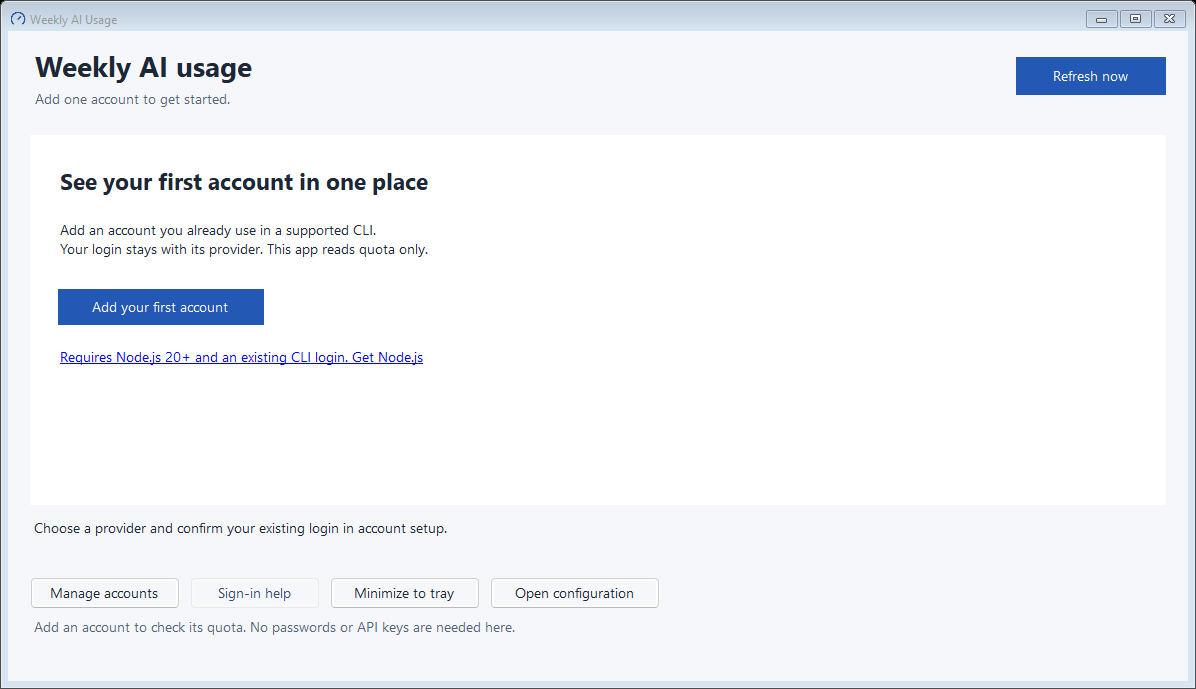
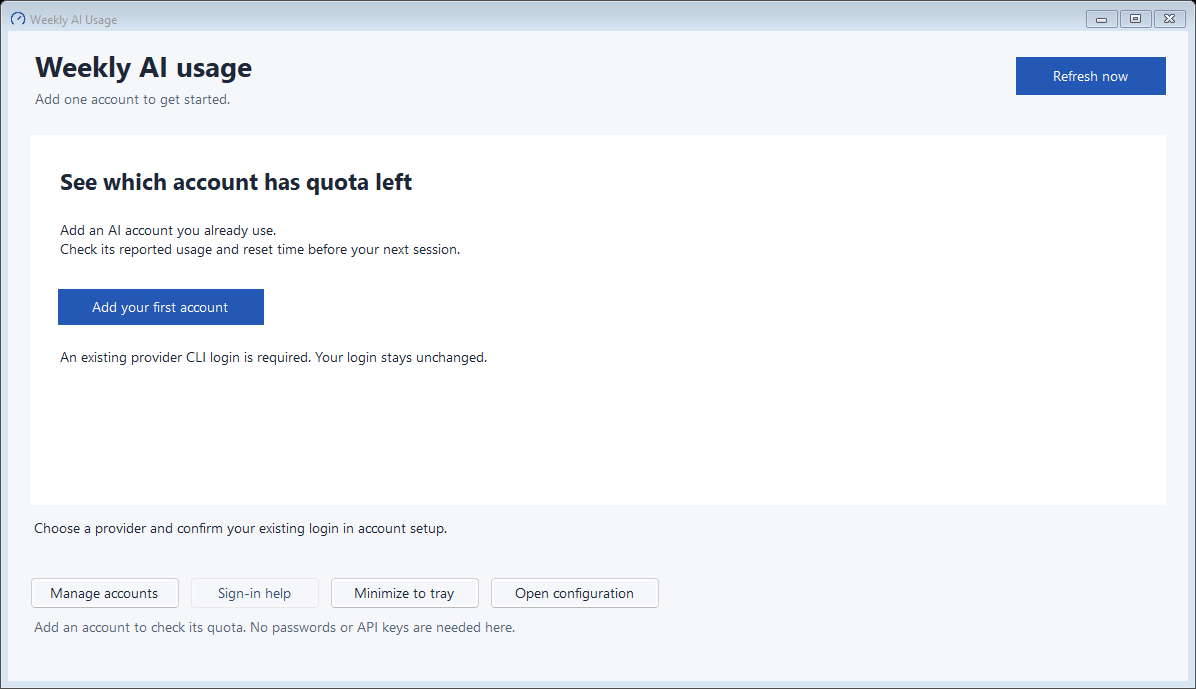
docs(onboarding): lead with quota availability and installer setup
Plan: docs/plans/2026-09-25-guided-onboarding.md

Changed region(s): [[0.0309, 0.3048, 0.3712, 0.3962], [0.0619, 0.4877, 0.4022, 0.5486], [0.0928, 0.2438, 0.3712, 0.2743]]

diff --git a/README.md b/README.md
@@ -1,7 +1,11 @@
-Weekly AI Usage
-===============
+See which AI account has quota left
+==================================
 
-A Windows tray dashboard for checking Claude, Codex, Grok and Devin quota in one place. Keep separate rows for work and personal accounts, see remaining weekly quota and reset times, and select an account to inspect its shorter usage window.
+Check before your next coding session. Weekly AI Usage puts the reported weekly usage, remaining quota and reset times for your Claude, Codex, Grok and Devin accounts in one Windows tray dashboard. Keep separate rows for work and personal accounts.
+
+[Download for Windows](https://github.com/naimkatiman/weekly-ai-usage/releases/download/v0.2.0-preview.1/WeeklyAIUsage-0.2.0-preview.1-Setup-x64.exe)
+
+Windows 10 or 11, x64. Preview v0.2.0-preview.1. The installer includes Node.js; no separate Node.js installation is required. You need a supported provider CLI that you have already signed into. [Release notes and checksums](https://github.com/naimkatiman/weekly-ai-usage/releases).
 
 ![Dashboard with three accounts and account management controls](docs/screenshot.png)
 
@@ -10,15 +14,13 @@ Synthetic demo data. These readings illustrate the UI and are not live account r
 Get your first account working
 ------------------------------
 
-You need Windows 10 or 11, [Node.js 20 or newer](https://nodejs.org), and a supported provider CLI that you have already signed into. This app reads that existing login. It does not sign you in.
+1. Download and run the installer above. Open Weekly AI Usage from the Start Menu after installation.
+2. Choose Add your first account, select its provider, then Find existing login. Confirm the email and choose Save account. For a custom profile, enter its folder first. Devin requires manual email entry.
+3. Check the account row. Live with a weekly reading means the provider returned its quota. You can see the remaining allowance and reset time, then select the account to inspect its shorter usage window when available.
 
-1. Download the portable ZIP from [Releases](https://github.com/naimkatiman/weekly-ai-usage/releases). This is a preview release.
-2. Extract the entire ZIP to a folder you can write to, such as a folder under Documents. Keep the files together.
-3. Open `WeeklyUsage.exe`, then choose Add your first account.
-4. Choose your provider. Select Find existing login to fill in the email from its local profile, or enter the email yourself. For a custom profile, enter its folder first. Devin requires manual email entry.
-5. Choose Save account. The dashboard checks the account immediately. Confirm that its row shows Live and a weekly reading. A detected email alone does not prove that the provider accepts the login.
+A detected email alone does not prove that the provider accepts the login. If the row is Unavailable, select it and open Sign-in help. Follow the instructions for that account, then choose Refresh now. See [troubleshooting](docs/troubleshooting.md) for login, installation and other setup failures.
 
-If the row is Unavailable, select it and open Sign-in help. Follow the instructions for that account, then choose Refresh now. See [troubleshooting](docs/troubleshooting.md) for missing Node.js, custom folders and other setup failures.
+The installer works for your Windows user without administrator rights. It adds a Start Menu shortcut and installs under `%LOCALAPPDATA%\Programs\Weekly AI Usage` by default. It does not change PATH or enable automatic startup. The app reads your existing provider login; it does not sign you in.
 
 Use Manage accounts to edit an account, or choose New account there to add another. A label such as Work or Personal is optional. Start with one account so you can confirm its reading before adding the rest.
 
@@ -64,7 +66,7 @@ For Devin, set the optional Devin CLI path if `devin.exe` is not on PATH. Only t
 Manual configuration
 --------------------
 
-The account editor creates `accounts.json` beside the app by default. Set `WEEKLY_USAGE_CONFIG` before launching the app to use a different file; the editor and collector both use it. Existing account settings and additional JSON fields are preserved when the editor saves. If another process changes the file, reopen Manage accounts before saving again.
+The account editor creates `accounts.json` beside the app by default, normally in `%LOCALAPPDATA%\Programs\Weekly AI Usage` for an installed copy. Set `WEEKLY_USAGE_CONFIG` before launching the app to use a different file; the editor and collector both use it. Existing account settings and additional JSON fields are preserved when the editor saves. If another process changes the file, reopen Manage accounts before saving again.
 
 For manual setup, copy `accounts.example.json` to `accounts.json`, replace the example email with your own, and choose Refresh now. The example contains one account:
 
@@ -90,11 +92,18 @@ Save JSON as UTF-8. Use forward slashes in Windows paths, such as `C:/tools/devi
 Updates and removal
 -------------------
 
-Before updating, exit the app and back up `accounts.json`. If you set `WEEKLY_USAGE_CONFIG`, back up that file instead and keep the same setting when launching the new version. Release ZIPs do not contain a real `accounts.json` or `usage-cache.json`.
+To update an installed copy, exit the app and run the new installer. It keeps your account settings and usage cache. Back up `accounts.json` before updating. If you set `WEEKLY_USAGE_CONFIG`, back up that file instead and keep the same setting when launching the new version. Release packages do not contain a real `accounts.json` or `usage-cache.json`.
 
-Extract a new release to a new folder. Copy your old `accounts.json` into it, or continue using your external configuration file, then launch the new executable. The usage cache is optional and can be rebuilt by refreshing. Keep the old folder until the new version reads your account correctly.
+Moving from the old ZIP? Exit the old app first. Install the new version and clear Open Weekly AI Usage on the Finish screen. With both copies closed, copy only your old `accounts.json` into the installation folder, then open the installed app. If you already use `WEEKLY_USAGE_CONFIG`, keep it pointed at your existing configuration instead. There is no need to copy provider credential files or change their logins. The usage cache is optional and can be rebuilt by refreshing. Keep the old folder until the installed version reads your account correctly.
 
-To remove the app, exit it and delete its extracted folder. This removes its local configuration and cache if they are in that folder. Remove any external configuration file separately if you no longer need it. Provider CLI logins remain in their own folders and are unchanged.
+To uninstall, exit the app and remove Weekly AI Usage through Windows Settings > Apps. Uninstall removes the app files and shortcuts but preserves user-created `accounts.json` and `usage-cache.json`. To remove those too, deliberately delete them from the installation folder after uninstalling. Remove an external configuration file only if you no longer need it. Provider CLI logins remain in their own folders and are unchanged.
+
+Portable ZIP and source users
+----------------------------
+
+The installer is the simplest setup. Earlier portable ZIPs remain available under [Releases](https://github.com/naimkatiman/weekly-ai-usage/releases) for manual use. They require [Node.js 20 or newer](https://nodejs.org) on PATH. Extract the entire ZIP to a writable folder, keep its files together, and open `WeeklyUsage.exe`.
+
+To update a portable copy manually, exit it, extract the new package to a new folder and copy `accounts.json`, or retain your external `WEEKLY_USAGE_CONFIG` setting. To remove a portable copy, exit it and delete its extracted folder; this also deletes any settings and cache inside that folder.
 
 Caveats
 -------
@@ -108,7 +117,7 @@ Endpoint references: [CodexBar provider notes](https://github.com/steipete/Codex
 Build from source
 -----------------
 
-In PowerShell, with Git and Node.js installed:
+In PowerShell, with Git and Node.js 20 or newer installed:
 
 ```powershell
 git clone https://github.com/naimkatiman/weekly-ai-usage.git
@@ -122,15 +131,17 @@ The build uses the .NET Framework C# compiler included with Windows. No addition
 Development
 -----------
 
-Run all tests, compile, then create a portable preview package:
+Run all tests, compile, then create the installer using an existing Inno Setup compiler:
 
 ```powershell
 powershell -NoProfile -ExecutionPolicy Bypass -File .\test.ps1
 powershell -NoProfile -ExecutionPolicy Bypass -File .\build.ps1
-powershell -NoProfile -ExecutionPolicy Bypass -File .\package.ps1 -Version 0.1.0-preview.1
+powershell -NoProfile -ExecutionPolicy Bypass -File .\installer.ps1 -Version 0.2.0-preview.1
 ```
 
-The package and SHA-256 checksum are written to `dist/WeeklyAIUsage-0.1.0-preview.1-windows.zip` and its `.sha256` file. `collect.cjs` builds the snapshot; `grok.cjs` and `devin.cjs` decode provider responses. The C# sources implement the window and account editor.
+The installer and SHA-256 checksum are written to `dist/WeeklyAIUsage-0.2.0-preview.1-Setup-x64.exe` and its `.sha256` file. The build downloads a pinned official Node.js 24 runtime, verifies its checksum and includes its license. The Windows CI runner has Inno Setup installed; for a custom compiler location, pass `-CompilerPath` or set `ISCC_PATH`. `package.ps1 -Version 0.2.0-preview.1` creates a portable ZIP for manual use instead.
+
+`collect.cjs` builds the snapshot; `grok.cjs` and `devin.cjs` decode provider responses. The C# sources implement the window and account editor.
 
 Headless: after configuring an account, `node collect.cjs` prints the snapshot as JSON on Windows or Linux. On macOS, Claude Code uses the Keychain instead of `.credentials.json`, so Claude rows report no matching login.
 

diff --git a/docs/linkedin-preview.md b/docs/linkedin-preview.md
@@ -1,54 +1,63 @@
-LinkedIn preview launch
-======================
+LinkedIn installer follow-up
+===========================
 
-This is a prepared draft, not a published post. Use it only after the portable preview release is available and its download link has been checked. The three-person onboarding test below remains unverified. No live provider compatibility or setup timing is claimed by this document.
+The owner has published the [original LinkedIn post](https://www.linkedin.com/feed/update/urn:li:activity:7509033966079840256/). The installer follow-up and comment below are prepared drafts. Neither has been posted by this work. Use them after the v0.2.0-preview.1 installer is published and its public download has been checked. The three-person onboarding test below remains unverified; no setup timing or new live provider compatibility is claimed here.
 
-Post draft
-----------
+Follow-up draft
+---------------
 
 Which AI account still has quota before I start another coding session?
 
-I built Weekly AI Usage to answer that in one Windows tray dashboard.
+Weekly AI Usage puts that answer in one Windows tray dashboard. See reported weekly usage, remaining quota and reset times across your Claude, Codex, Grok and Devin accounts, with separate rows for work and personal accounts.
 
-It reads quota for Claude, Codex, Grok and Devin, with separate rows for work and personal accounts. You can see the reported weekly usage, remaining quota and reset time. Select an account to inspect its shorter usage window when the provider offers one.
+The Windows preview now has an installer. No ZIP extraction or separate Node.js installation required.
 
-The preview now has a portable download and a guided account setup. Choose a provider, find an existing local login, and save the account. Devin requires manual email entry.
+Install the app, choose Add your first account, and select an existing provider login. Save it to check its quota. Devin requires manual email entry.
 
-You still need Windows, Node.js 20 or newer, and a provider CLI you have already signed into. The dashboard reads those logins, checks usage every 15 minutes, and labels missing or stale readings clearly. It does not send prompts or spend credits.
+You need Windows 10 or 11 on x64 and a supported provider CLI you have already signed into. The dashboard reads that existing login and labels missing or stale readings clearly.
 
-I am looking for Windows users with multiple AI accounts to try the setup and tell me where they get stuck.
+Try it before your next coding session. Tell me which step needs less effort.
 
-Download the preview: https://github.com/naimkatiman/weekly-ai-usage/releases
+Download for Windows: https://github.com/naimkatiman/weekly-ai-usage/releases/download/v0.2.0-preview.1/WeeklyAIUsage-0.2.0-preview.1-Setup-x64.exe
 
-Prepared preview asset
-----------------------
+Comment for the existing post
+-----------------------------
 
-`linkedin-preview.mp4` is a 25-second captioned walkthrough made from native UI screenshots. It shows welcome, account setup, missing-login feedback and a synthetic quota dashboard. It is an illustrated preview, not a recording of a real provider sign-in. The release includes this optional video for the post. The storyboard below is available for a later interactive recording.
+Update: there is now a Windows installer. Node.js is included, so you do not need to install it separately. Install, add your existing AI account, and check its remaining weekly quota and reset time. Windows 10/11 x64 and an existing supported provider CLI login are required.
+
+Download: https://github.com/naimkatiman/weekly-ai-usage/releases/download/v0.2.0-preview.1/WeeklyAIUsage-0.2.0-preview.1-Setup-x64.exe
+
+Preview assets
+--------------
+
+The `linkedin-preview.mp4` in v0.1.0-preview.1 is a historical 25-second captioned walkthrough made from native UI screenshots. It shows welcome, account setup, missing-login feedback and a synthetic quota dashboard. Its separate Node.js requirement describes the earlier portable release and is outdated for the installer. Do not reuse that video to explain the new installation flow.
+
+It is an illustrated preview, not a recording of a real provider sign-in. Use the storyboard below for a new installer walkthrough; do not claim it exists until recorded and reviewed.
 
 Demo recording, 25 seconds
 -------------------------
 
-Use a clean demo configuration with addresses such as `personal@example.com` and `work@example.com`. Record only synthetic readings and label the recording "Demo data" on screen throughout. Never expose real account emails, provider credential files or tokens. Synthetic readings demonstrate the interface; they do not verify live provider compatibility.
+Use a clean demo configuration with addresses such as `personal@example.com` and `work@example.com`. Label synthetic readings "Demo data" on screen throughout. Never expose real account emails, provider credential files or tokens. Synthetic readings demonstrate the interface; they do not verify live provider compatibility.
 
 | Time | Picture | On-screen text |
 | --- | --- | --- |
 | 0-3 s | Open the dashboard from the tray. Show two demo account rows with different remaining quotas. | Which account has quota left? |
-| 3-7 s | Open Manage accounts and the account editor. Show the provider choice and demo email. | Add the account you already use |
-| 7-12 s | Show a separate, clearly labelled demo of the first-run setup with Find existing login and Save account. | Existing CLI login required |
+| 3-7 s | Show the installer, then the Start Menu shortcut. Use an explicit cut between them. | Install on Windows. Node.js included. |
+| 7-12 s | Show first-run setup with Find existing login and Save account. | Add an account you already use |
 | 12-18 s | Return to the two-row dashboard. Select one row to show its shorter usage window and reset time. | Weekly quota and reset time |
 | 18-22 s | Show a Stale demo row with its capture time, then an Unavailable row. | Missing data stays visible |
-| 22-25 s | Minimize to the tray. End with the repository name and release link. | Windows preview. Node.js 20+ required. |
+| 22-25 s | Minimize to the tray. End with the repository name and release link. | Windows preview. Existing CLI login required. |
 
 Keep account names and statuses large enough to read on a phone. Use short cuts instead of speeding through an actual setup. Do not add a stopwatch or imply that a 25-second video proves setup duration. Add captions so the demo works without audio.
 
 Gate for the broader launch
 --------------------------
 
-Status: unverified. Recruit three first-time Windows users who already have Node.js 20+ and one supported CLI login. Give them only the release link and README. Record prerequisite installation time separately if a participant starts without them.
+Status: unverified. Recruit three first-time Windows 10/11 x64 users who have one supported CLI login. At least one should have no separate Node.js installation. Give them only the release link and README. Record provider CLI installation and sign-in time separately if a participant starts without them.
 
 For each participant, record whether they independently:
 
-- Download and extract the ZIP, launch the app, add the intended account, and reach a verified Live reading within five minutes.
+- Download and run the installer, open the app, add the intended account, and reach a verified Live reading within five minutes.
 - Recover from a missing login using the app's help and documentation.
 - Explain the difference between Live, Stale, Reset pending and Unavailable.
 - Minimize the app to keep it running and exit it intentionally.

diff --git a/docs/troubleshooting.md b/docs/troubleshooting.md
@@ -3,10 +3,21 @@ Troubleshooting
 
 Start with one account. A successful setup ends with the correct email, a Live state and a weekly reading. Find existing login only identifies a local profile; it does not validate the provider session.
 
-Node.js was not found
----------------------
+Installed app will not start or Node.js was not found
+----------------------------------------------------
 
-Install [Node.js 20 or newer](https://nodejs.org). Close Weekly AI Usage and open it again so it can pick up the updated PATH. In a new PowerShell window, run `node --version` to check the installation. If you installed Node.js manually, add its folder to PATH and restart the app.
+The Windows installer includes its own Node.js runtime. Close the app and run the installer again in the same location to restore missing app files. Your saved accounts and cache are preserved. Open Weekly AI Usage from the Start Menu. You do not need to install Node.js separately for the installed app.
+
+The installer supports Windows 10 or 11 on x64. Its default location is `%LOCALAPPDATA%\Programs\Weekly AI Usage`, under your Windows user. It does not need administrator rights or change PATH.
+
+For an older portable ZIP or a source build, install [Node.js 20 or newer](https://nodejs.org). Close Weekly AI Usage and open it again so it can pick up the updated PATH. In a new PowerShell window, run `node --version` to check the installation. If you installed Node.js manually, add its folder to PATH and restart the app.
+
+Installed app opens the old portable copy or has no accounts
+----------------------------------------------------------
+
+A second launch brings an already running copy forward. Exit the old portable copy with X before opening Weekly AI Usage from the Start Menu.
+
+The installer does not search for old account files. With both copies closed, copy only the old `accounts.json` into the installation folder, normally `%LOCALAPPDATA%\Programs\Weekly AI Usage`. If you already set `WEEKLY_USAGE_CONFIG`, retain that setting to use the existing file instead. Do not copy provider credential files. Open the installed app and confirm the correct account reaches Live before removing the old folder.
 
 No matching login or the wrong email
 -----------------------------------
@@ -30,13 +41,13 @@ Select the affected row and open Sign-in help. Use the displayed account and pro
 Configuration is invalid or cannot be saved
 ------------------------------------------
 
-The app preserves an unreadable or invalid configuration file instead of replacing it. Use Open configuration to inspect the file and make a backup before editing it. Check the file path shown in the app; `WEEKLY_USAGE_CONFIG` can point outside the extracted app folder.
+The app preserves an unreadable or invalid configuration file instead of replacing it. Use Open configuration to inspect the file and make a backup before editing it. Check the file path shown in the app; `WEEKLY_USAGE_CONFIG` can point outside the app folder.
 
 - Save the file as UTF-8, not UTF-16.
 - Use an `accounts` array with a supported `provider` and an `email` for every entry.
 - Each provider and email pair must be unique.
 - Use forward slashes or escaped backslashes in JSON paths. Comments and trailing commas are invalid JSON.
-- Keep the app and its default configuration in a writable folder, not Program Files or inside the ZIP.
+- Keep the app and its default configuration in a writable folder. The installer's default folder under LocalAppData is writable; Program Files and the inside of a ZIP are unsuitable for manual copies.
 
 Compare your file with `accounts.example.json`, repair it, then reopen Manage accounts. Do not overwrite your account list with the example. If another process changed the file after you opened the editor, close the editor and reopen it to load those changes before saving.
 
@@ -57,9 +68,14 @@ Only a Devin CLI login for `server.codeium.com` is supported. Enterprise and reg
 Window closed or updates stopped
 --------------------------------
 
-Minimize keeps the app in the tray. X exits it and stops checks. Open `WeeklyUsage.exe` again to resume. A second launch focuses the existing window if the app is already running.
+Minimize keeps the app in the tray. X exits it and stops checks. Open Weekly AI Usage from the Start Menu to resume, or open `WeeklyUsage.exe` for a portable copy. A second launch focuses the existing window if the app is already running.
+
+Account files remain after uninstall
+-----------------------------------
+
+Uninstall deliberately preserves user-created `accounts.json` and `usage-cache.json` so an uninstall or reinstall does not erase your account list. If you want to remove this data, uninstall first, then delete those files from the installation folder. If you use `WEEKLY_USAGE_CONFIG`, remove that external file only if you no longer need it. Provider CLI logins are stored separately and remain unchanged.
 
 Reporting a problem
 -------------------
 
-Include your Windows and Node.js versions, provider, app release version, and the exact error text. Remove email addresses and local paths from screenshots if you do not want to share them. Never attach provider credential files or tokens. `accounts.json` and `usage-cache.json` also contain account emails; review them before sharing anything.
+Include your Windows version, provider, app release version, whether you used the installer or a portable/source copy, and the exact error text. For a portable/source copy, also include `node --version`. Remove email addresses and local paths from screenshots if you do not want to share them. Never attach provider credential files or tokens. `accounts.json` and `usage-cache.json` also contain account emails; review them before sharing anything.
